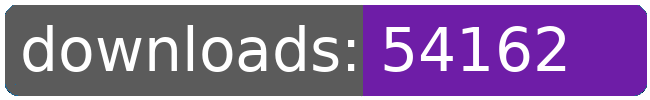
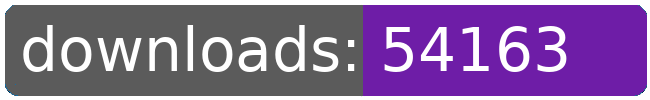
dl log written

Changed region(s): [[0.8308, 0.42, 0.8923, 0.72], [0.8, 0.27, 0.8615, 0.33]]

diff --git a/README.md b/README.md
@@ -21,8 +21,8 @@
 		<td>3643</td>
 		<td>3664</td>
 		<td>3682</td>
-		<td>3695</td>
-		<td>+ 13</td>
+		<td>3696</td>
+		<td>+ 14</td>
 	</tr>
 	<tr>
 		<td>aberrant.kahet.outfitter</td>
@@ -274,8 +274,8 @@
 		<td></td>
 		<td></td>
 		<td></td>
-		<td>54162</td>
-		<td>213</td>
+		<td>54163</td>
+		<td>214</td>
 	</tr>
 </table>
 </sub></sup>
@@ -322,8 +322,8 @@
 		<td>3643</td>
 		<td>3664</td>
 		<td>3682</td>
-		<td>3695</td>
-		<td>+ 13</td>
+		<td>3696</td>
+		<td>+ 14</td>
 	</tr>
 	<tr>
 		<td>capture.archons</td>
@@ -553,8 +553,8 @@
 		<td></td>
 		<td></td>
 		<td></td>
-		<td>54162</td>
-		<td>213</td>
+		<td>54163</td>
+		<td>214</td>
 	</tr>
 </table>
 </sub></sup>
